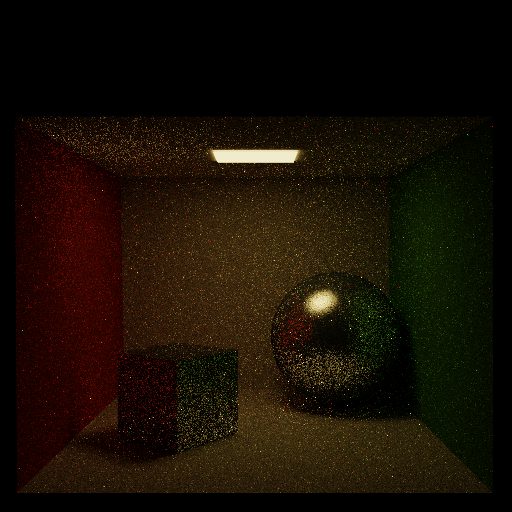
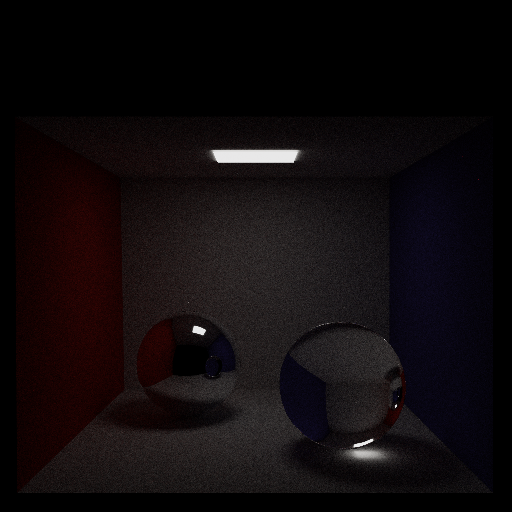
glass sphere missing top specular highlight

Changed region(s): [[0.0312, 0.2188, 0.9375, 0.9688], [0.0625, 0.75, 0.0938, 0.8125]]

diff --git a/solver/solver.h b/solver/solver.h
@@ -17,7 +17,7 @@
 
 using namespace Eigen;
 
-enum BRDF_TYPE {BRDF_DIFFUSE = 1, BRDF_PHONG = 2,BRDF_MIRROR = 3,BRDF_REFRACT = 4};
+enum BRDF_TYPE {BRDF_DIFFUSE = 1, BRDF_PHONG = 2,BRDF_MIRROR = 3,BRDF_DIELECTRIC = 4};
 
 
 // Return the BRDF type given the material information at the point of intersection
@@ -41,8 +41,8 @@ BRDF_TYPE BRDFType( const tinyobj::material_t& mat) {
         type = BRDF_MIRROR;
     }
     //TODO: Find condition for Refractive Surface
-    if (1==2) {
-        type = BRDF_REFRACT;
+    if (mat.illum == 7) {
+        type = BRDF_DIELECTRIC;
     }
 
     return type;
@@ -138,13 +138,59 @@ std::tuple<Vector3f,float> samplePhongDir(const Vector3f w_i, const Vector3f nor
 
 }
 
-// Returns a Mirror BRDF with prob 1.0
+// Returns a refelcted outgoing ray with prob 1.0
 std::tuple<Vector3f,float> sampleMirrorDir(Vector3f w_i, Vector3f normal) {
     Vector3f direction = reflectVec3(w_i,normal).normalized();
     float prob = 1.0f;
 
 
     return std::tuple<Vector3f,float>(direction,prob);
+}
+
+
+// Returns a refracted or reflected ray based on Snell's Law and Schlicks Approx.
+std::tuple<Vector3f,float> sampleDielectricDir(Vector3f w_i, Vector3f normal, float ior) {
+
+    // argument to the square root for finding cos theta out. We check for real or complex solutions:
+
+    float cos_theta_in = std::clamp(w_i.dot(normal),-1.f,1.f);
+
+    float omega_i, omega_o;
+    Vector3f n;
+
+    // air into object
+    if (cos_theta_in < 0.0f) {
+        omega_i = 1.0f;
+        omega_o = ior;
+        cos_theta_in = -cos_theta_in;
+        n = normal;
+
+
+    }
+    //object into air
+    else {
+        omega_i = ior;
+        omega_o = 1.0f;
+        n = -normal;
+
+    }
+
+    float ratio = (omega_i/omega_o);
+    float argument = 1.0f - (ratio*ratio) * (1.0f - (cos_theta_in*cos_theta_in));
+
+    //total internal reflection
+    if (argument < 0.0f) {
+        return sampleMirrorDir(w_i, normal);
+    }
+
+    float cos_theta_out = float(sqrt(argument));
+    Vector3f w_o = ratio*w_i + (ratio*cos_theta_in - cos_theta_out)*n;
+
+    Vector3f direction = w_o;
+    float prob = 1.0f;
+
+    return std::tuple<Vector3f,float>(direction,prob);
+
 }
 
 
@@ -155,7 +201,6 @@ Vector3f BRDF( const BRDF_TYPE brdfType , const Vector3f w_i, const Vector3f w_o
     Vector3f reflection = reflectVec3(w_i,normal);
     float cosine = std::clamp(w_o.dot(reflection),0.0f,1.0f);
     float t = sceneData.ks/(sceneData.ks + sceneData.kd);
-    Vector3f spec = t*Vector3f(s[0],s[1],s[2])* (mat.shininess + 2/(2.0f*M_PI))*powf(cosine,mat.shininess);
 
     switch(brdfType) {
       case BRDF_DIFFUSE:
@@ -168,7 +213,8 @@ Vector3f BRDF( const BRDF_TYPE brdfType , const Vector3f w_i, const Vector3f w_o
         //TODO: Look at the 1/cos(theta) constant to multiply here and understand if we need to add it
         return (1.0f/reflection.dot(normal))*Vector3f(1.0f,1.0f,1.0f);
 
-      //TODO: Add BRDF_REFRACT case
+      case BRDF_DIELECTRIC:
+         return (1.0f/w_o.dot(normal))*Vector3f(1.0f,1.0f,1.0f);
       default:
         return Vector3f(d[0],d[1],d[2])/M_PI;
 
@@ -191,8 +237,10 @@ std::tuple<Vector3f,float> sampleNextDir(BRDF_TYPE brdfType, const CS123SceneGlo
         break;
       case BRDF_MIRROR:
         return sampleMirrorDir(w_i, normal);
-
-      //TODO: Add BRDF_REFRACT case
+        break;
+      case BRDF_DIELECTRIC:
+        return sampleDielectricDir(w_i,normal,material.ior);
+        break;
       default:
         return sampleDiffuseDir(w_i,normal);
 

diff --git a/pathtracer.cpp b/pathtracer.cpp
@@ -74,6 +74,7 @@ Vector3f PathTracer::radiance(const Ray& r, const Scene& scene ) {
 
         float probRussian = 0.90f;
 
+        // russian roulette
         if (probRussian > randomFloat()) {
 
 
@@ -88,13 +89,13 @@ Vector3f PathTracer::radiance(const Ray& r, const Scene& scene ) {
             Vector3f w_o = std::get<0>(newDirection);
             float pdf = std::get<1>(newDirection);
 
-             // transform w_o if it is not a mirror reflection
-            if (brdfType != BRDF_MIRROR) {
+             // transform w_o if it is not a reflection/refraction
+            if (brdfType != BRDF_MIRROR && brdfType != BRDF_DIELECTRIC) {
                 w_o = rotateHemisphereMatrix(objNormal)*w_o;
             }
 
             // if sampled ray does NOT go into the surface, we recurse, otherwise we terminate our ray
-            if (w_o.dot(objNormal) > 0.0f) {
+
                 Vector3f brdf = BRDF(brdfType,w_i,w_o,objNormal,scene.m_globalData,material);
 
                  //trace new ray recursivley
@@ -103,10 +104,6 @@ Vector3f PathTracer::radiance(const Ray& r, const Scene& scene ) {
 
                 // Approximate indirect lighting contribution to integral
                  L_total += (outgoingRadiance.cwiseProduct(brdf)) * (-w_i).dot(objNormal)*(1.0f/(pdf*probRussian));
-
-            }
-
-
 
 
         }
@@ -117,6 +114,7 @@ Vector3f PathTracer::radiance(const Ray& r, const Scene& scene ) {
 }
 
 
+// Tone map using the Reinhard operator
 void PathTracer::toneMap(QRgb *imageData, std::vector<Vector3f> &intensityValues) {
     for(int y = 0; y < m_height; ++y) {
         for(int x = 0; x < m_width; ++x) {
